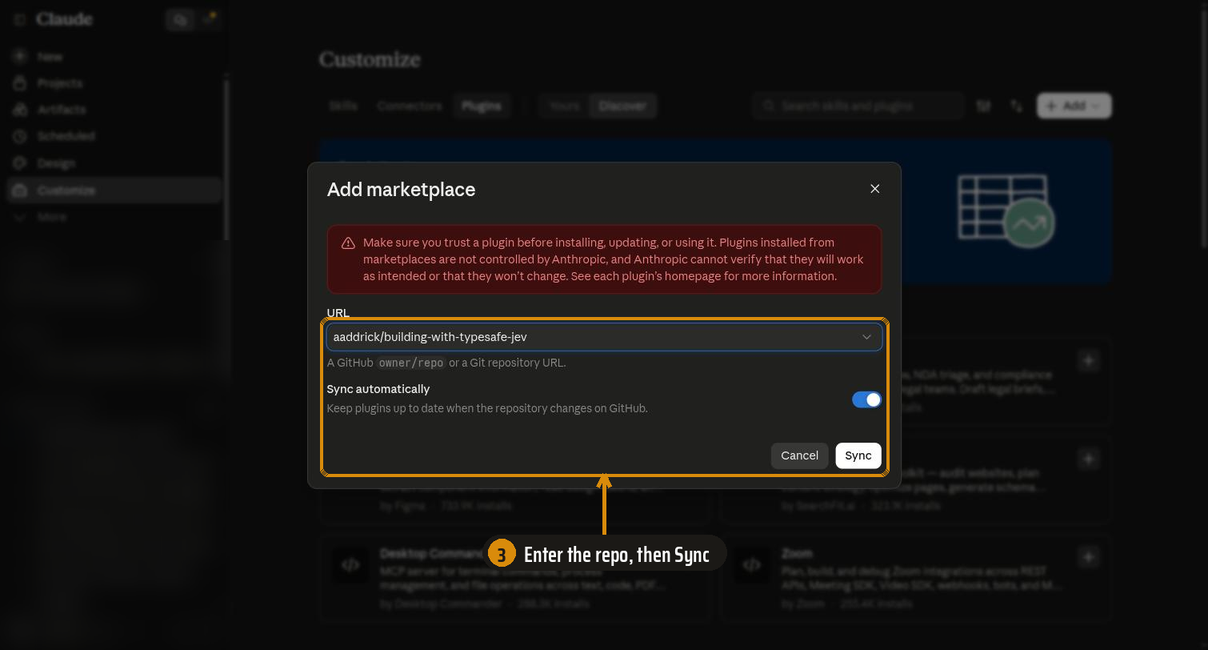
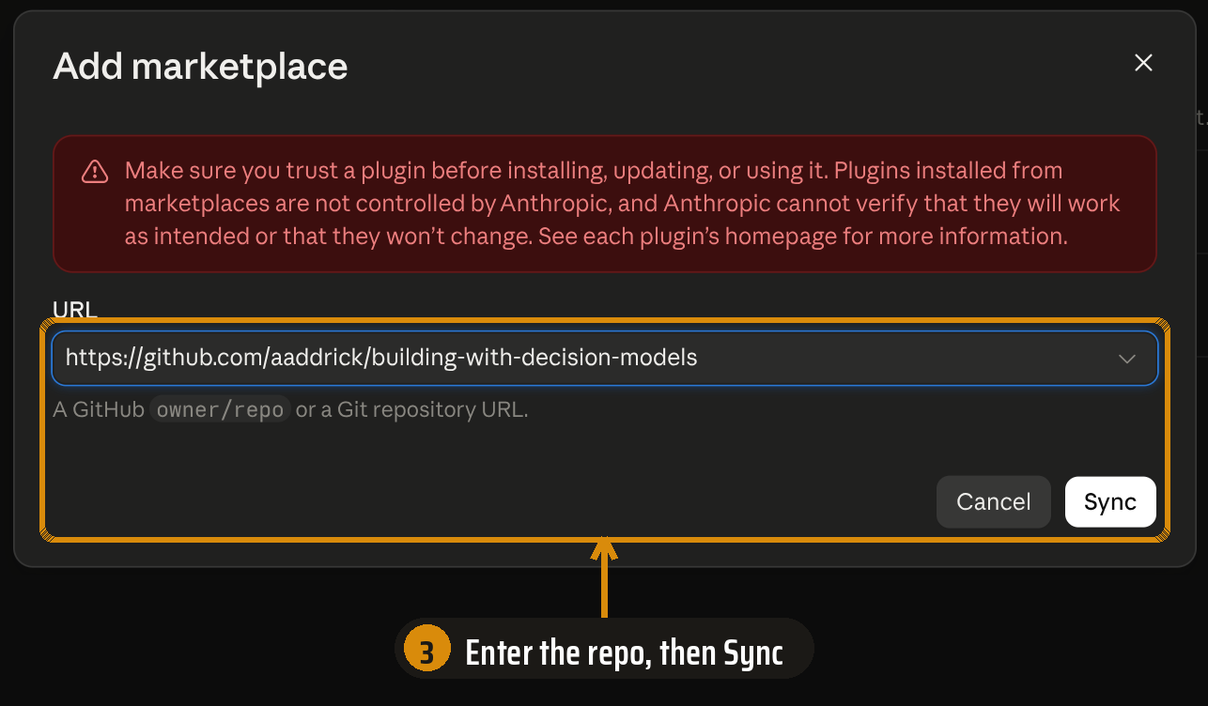
Show the new repo in the install screenshots and tag the main decision models
Steps 3-5 of the Desktop, Cowork, and claude.ai walkthrough showed the old
building-with-typesafe-jev listing. Replace them with captures of this repo,
and let annotate_screens.py take tighter crops at their own size and zoom.

List Clef, pplx-decider, Laya, Kev, Nimble, CLM, OpenAI Decisions, Strands
Decider, and ai_decide next to Jev in the manifest keywords.

diff --git a/scripts/annotate_screens.py b/scripts/annotate_screens.py
@@ -9,10 +9,12 @@ never enter the repo. Capture them yourself, then run:
 
 api-key: 1512x807 captures of console.typesafe.ai, named 01-home.jpg,
 02-keys.jpg, 03-name.jpg, 04-created.jpg.
-plugin-marketplace: 1510x812 captures of claude.ai/customize/plugins with a dark
-theme, named 01-add-menu.jpg, 02-chooser.jpg, 03-repo.jpg, 04-listed.jpg,
-05-installed.jpg.
-Each flow writes .github/assets/<flow>/step-1.png onward.
+plugin-marketplace: captures of the Plugins page with a dark theme. Steps 1-2
+are 1510x812 captures of claude.ai/customize/plugins named 01-add-menu.jpg and
+02-chooser.jpg. Steps 3-5 are tighter crops of the dialog and the Discover list:
+03-repo.png (1286x612), 04-listed.png and 05-added.png (1912x612).
+Each flow writes .github/assets/<flow>/step-1.png onward. Pass step numbers
+after the folder to redo only those steps, e.g. `plugin-marketplace raw 3 4 5`.
 
 Every image gets the same treatment: blur the account details (and, for API
 keys, every existing key row and the new key's value), then draw an amber
@@ -55,66 +57,76 @@ def mask_key(img, box):
            font=mono, fill=(0x55, 0x55, 0x55))
 
 
-def highlight(img, box, step, label, arrow_from):
-    """Amber box around the target, a numbered badge, and an arrow with a label."""
+def highlight(img, box, step, label, arrow_from, s=1.0):
+    """Amber box around the target, a numbered badge, and an arrow with a label.
+
+    s scales the strokes and text, so a wider capture gets marks of the same
+    size relative to the page once it is resized for the README.
+    """
     d = ImageDraw.Draw(img)
-    pad = 6
+    pad = round(6 * s)
     x0, y0, x1, y1 = box[0] - pad, box[1] - pad, box[2] + pad, box[3] + pad
-    for w in range(4):
-        d.rounded_rectangle([x0 - w, y0 - w, x1 + w, y1 + w], radius=10, outline=AMBER)
+    for w in range(round(4 * s)):
+        d.rounded_rectangle([x0 - w, y0 - w, x1 + w, y1 + w], radius=round(10 * s), outline=AMBER)
 
     # arrow from the label toward the nearest edge midpoint of the box
     ax, ay = arrow_from
     tx = min(max(ax, x0), x1)
     ty = min(max(ay, y0), y1)
-    d.line([(ax, ay), (tx, ty)], fill=AMBER, width=5)
+    d.line([(ax, ay), (tx, ty)], fill=AMBER, width=round(5 * s))
     import math
     ang = math.atan2(ty - ay, tx - ax)
-    head = 18
+    head = 18 * s
     for sign in (-1, 1):
         hx = tx - head * math.cos(ang + sign * 0.45)
         hy = ty - head * math.sin(ang + sign * 0.45)
-        d.line([(tx, ty), (hx, hy)], fill=AMBER, width=5)
+        d.line([(tx, ty), (hx, hy)], fill=AMBER, width=round(5 * s))
 
     # label pill with the step number
-    f = font(26)
+    f = font(round(26 * s))
     text_w = d.textlength(label, font=f)
-    r = 20
-    pill_w = int(text_w + 2 * r + 34)
-    px, py = ax - pill_w // 2, ay - r - 2
-    d.rounded_rectangle([px, py, px + pill_w, py + 2 * r + 4], radius=r + 2, fill=INK)
-    cx, cy = px + r + 4, py + r + 2
-    d.ellipse([cx - r + 3, cy - r + 3, cx + r - 3, cy + r - 3], fill=AMBER)
-    nf = font(24, "Bold")
+    r = round(20 * s)
+    pill_w = int(text_w + 2 * r + 34 * s)
+    px, py = ax - pill_w // 2, ay - r - 2 * s
+    d.rounded_rectangle([px, py, px + pill_w, py + 2 * r + 4 * s], radius=r + 2 * s, fill=INK)
+    cx, cy = px + r + 4 * s, py + r + 2 * s
+    d.ellipse([cx - r + 3 * s, cy - r + 3 * s, cx + r - 3 * s, cy + r - 3 * s], fill=AMBER)
+    nf = font(round(24 * s), "Bold")
     n = str(step)
-    d.text((cx - d.textlength(n, font=nf) / 2, cy - 16), n, font=nf, fill=INK)
-    d.text((cx + r + 8, cy - 18), label, font=f, fill=WHITE)
+    d.text((cx - d.textlength(n, font=nf) / 2, cy - 16 * s), n, font=nf, fill=INK)
+    d.text((cx + r + 8 * s, cy - 18 * s), label, font=f, fill=WHITE)
 
 
-# flow: (capture size, output size, steps). Each step is
-# raw file, blurs, dialog kept sharp, key mask, target box, label, label position.
+# flow: (output width, steps). Each step is raw file, capture size, blurs,
+# dialog kept sharp, key mask, target box, label, label position, extra rows of
+# background added below the capture to make room for the label, and a mark
+# scale for a capture zoomed in further than the rest.
 FLOWS = {
-    "api-key": ((1512, 807), (1210, 646), [
-        ("01-home.jpg",    [ACCOUNT],       None,                  None,                 (8, 182, 256, 214),   "Open API Keys",            (132, 420)),
-        ("02-keys.jpg",    [ACCOUNT, ROWS], None,                  None,                 (1361, 14, 1479, 47), "Click Create key",         (1180, 560)),
-        ("03-name.jpg",    [ACCOUNT, ROWS], (492, 281, 1021, 527), None,                 (517, 410, 996, 502), "Name it, then Create key", (756, 640)),
-        ("04-created.jpg", [ACCOUNT, ROWS], (492, 266, 1021, 542), (517, 354, 914, 434), (922, 378, 996, 410), "Copy it now: shown once",  (1180, 640)),
+    "api-key": (1210, [
+        ("01-home.jpg",    (1512, 807), [ACCOUNT],       None,                  None,                 (8, 182, 256, 214),   "Open API Keys",            (132, 420), 0, 1),
+        ("02-keys.jpg",    (1512, 807), [ACCOUNT, ROWS], None,                  None,                 (1361, 14, 1479, 47), "Click Create key",         (1180, 560), 0, 1),
+        ("03-name.jpg",    (1512, 807), [ACCOUNT, ROWS], (492, 281, 1021, 527), None,                 (517, 410, 996, 502), "Name it, then Create key", (756, 640), 0, 1),
+        ("04-created.jpg", (1512, 807), [ACCOUNT, ROWS], (492, 266, 1021, 542), (517, 354, 914, 434), (922, 378, 996, 410), "Copy it now: shown once",  (1180, 640), 0, 1),
     ]),
-    "plugin-marketplace": ((1510, 812), (1208, 650), [
-        ("01-add-menu.jpg",  [SIDEBAR], None, None, (1206, 159, 1388, 193),  "Add, then Add marketplace", (1100, 330)),
-        ("02-chooser.jpg",   [SIDEBAR], None, None, (410, 410, 1102, 479),   "Add from a repository",     (755, 660)),
-        ("03-repo.jpg",      [SIDEBAR], None, None, (409, 405, 1102, 586),   "Enter the repo, then Sync", (755, 690)),
-        ("04-listed.jpg",    [SIDEBAR], None, None, (1338, 190, 1389, 224),  "Add the plugin",            (1180, 258)),
-        ("05-installed.jpg", [SIDEBAR], None, None, (1132, 735, 1484, 795),  "Installed and ready",       (1000, 600)),
+    "plugin-marketplace": (1208, [
+        ("01-add-menu.jpg", (1510, 812), [SIDEBAR], None, None, (1206, 159, 1388, 193), "Add, then Add marketplace", (1100, 330), 0, 1),
+        ("02-chooser.jpg",  (1510, 812), [SIDEBAR], None, None, (410, 410, 1102, 479),  "Add from a repository",     (755, 660), 0, 1),
+        ("03-repo.png",     (1286, 612), [],        None, None, (56, 352, 1231, 563),   "Enter the repo, then Sync", (643, 690), 140, 1.7),
+        ("04-listed.png",   (1912, 612), [],        None, None, (1509, 220, 1597, 274), "Add the plugin",            (1290, 430), 0, 1),
+        ("05-added.png",    (1912, 612), [],        None, None, (1445, 220, 1597, 274), "Added and ready",           (1230, 430), 0, 1),
     ]),
 }
 
+REFERENCE_WIDTH = 1510  # the capture width the mark sizes were tuned on
 
-def main(flow: str, raw_dir: Path) -> None:
-    size, out_size, steps = FLOWS[flow]
+
+def main(flow: str, raw_dir: Path, only: set[int]) -> None:
+    out_w, steps = FLOWS[flow]
     out_dir = ASSETS / flow
     out_dir.mkdir(parents=True, exist_ok=True)
-    for i, (name, blurs, dialog, key_box, target, label, label_at) in enumerate(steps, start=1):
+    for i, (name, size, blurs, dialog, key_box, target, label, label_at, extra, mark) in enumerate(steps, start=1):
+        if only and i not in only:
+            continue
         img = Image.open(raw_dir / name).convert("RGB")
         if img.size != size:
             sys.exit(f"{name}: expected {size[0]}x{size[1]}, got {img.size}")
@@ -125,13 +137,17 @@ def main(flow: str, raw_dir: Path) -> None:
             img.paste(sharp, dialog[:2])     # the dialog is the subject; keep it readable
         if key_box:
             mask_key(img, key_box)
-        highlight(img, target, i, label, label_at)
+        if extra:
+            grown = Image.new("RGB", (img.width, img.height + extra), img.getpixel((2, img.height - 2)))
+            grown.paste(img, (0, 0))
+            img = grown
+        highlight(img, target, i, label, label_at, mark * img.width / REFERENCE_WIDTH)
         out = out_dir / f"step-{i}.png"
-        img.resize(out_size, Image.LANCZOS).save(out, optimize=True)
+        img.resize((out_w, round(img.height * out_w / img.width)), Image.LANCZOS).save(out, optimize=True)
         print(f"wrote {out}")
 
 
 if __name__ == "__main__":
-    if len(sys.argv) != 3 or sys.argv[1] not in FLOWS:
+    if len(sys.argv) < 3 or sys.argv[1] not in FLOWS:
         sys.exit(__doc__)
-    main(sys.argv[1], Path(sys.argv[2]))
+    main(sys.argv[1], Path(sys.argv[2]), {int(n) for n in sys.argv[3:]})

diff --git a/.github/readme/README.ja.md b/.github/readme/README.ja.md
@@ -77,17 +77,17 @@ claude plugin install building-with-decision-models@building-with-decision-model
 
 <img src="../assets/plugin-marketplace/step-2.png" alt="Add marketplace ダイアログ。琥珀色の枠と矢印が Add from a repository を指しています。" width="100%">
 
-**ステップ 3.** `aaddrick/building-with-decision-models` を入力します。**Sync automatically** をオンのままにしておくと、このリポジトリの更新に合わせてプラグインも更新されます。続けて **Sync** を選びます。
+**ステップ 3.** `aaddrick/building-with-decision-models` か GitHub の URL 全体を入力し、**Sync** を選びます。ダイアログに **Sync automatically** があればオンのままにしておくと、このリポジトリの更新に合わせてプラグインも更新されます。
 
-<img src="../assets/plugin-marketplace/step-3.png" alt="URL 欄に aaddrick/building-with-decision-models を入力し、Sync automatically をオンにした Add marketplace ダイアログ。琥珀色の枠と矢印が URL 欄、トグル、Sync ボタンを指しています。" width="100%">
+<img src="../assets/plugin-marketplace/step-3.png" alt="URL 欄に https://github.com/aaddrick/building-with-decision-models を入力した Add marketplace ダイアログ。琥珀色の枠と矢印が URL 欄と Sync ボタンを指しています。" width="100%">
 
 **ステップ 4.** **Building with decision models** の横の **Add** を選びます。
 
 <img src="../assets/plugin-marketplace/step-4.png" alt="Building with decision models が表示された Discover の一覧。琥珀色の枠と矢印がその Add ボタンを指しています。" width="100%">
 
-**ステップ 5.** プラグインのインストール完了が表示されます。同じアカウントのデスクトップアプリと Cowork にも表示されます。
+**ステップ 5.** ボタンが **Added** に変わり、一覧にバージョンが表示されます。同じアカウントのデスクトップアプリと Cowork にもプラグインが表示されます。
 
-<img src="../assets/plugin-marketplace/step-5.png" alt="Building with decision models のプラグインページと、インストールが完了して使用可能になったという通知。琥珀色の枠と矢印が通知を指しています。" width="100%">
+<img src="../assets/plugin-marketplace/step-5.png" alt="Building with decision models v0.1.0 と Added ボタンが表示された Discover 一覧。琥珀色の枠と矢印が Added を指しています。" width="100%">
 
 </details>
 

diff --git a/.github/readme/README.ko.md b/.github/readme/README.ko.md
@@ -77,17 +77,17 @@ claude plugin install building-with-decision-models@building-with-decision-model
 
 <img src="../assets/plugin-marketplace/step-2.png" alt="Add marketplace 대화상자. 호박색 상자와 화살표가 Add from a repository를 가리킵니다." width="100%">
 
-**3단계.** `aaddrick/building-with-decision-models`를 입력하세요. **Sync automatically**를 켜 두면 이 저장소가 업데이트될 때 플러그인도 업데이트됩니다. 그런 다음 **Sync**를 선택하세요.
+**3단계.** `aaddrick/building-with-decision-models` 또는 전체 GitHub URL을 입력한 다음 **Sync**를 선택하세요. 대화상자에 **Sync automatically**가 보이면 켜 두세요. 이 저장소가 업데이트될 때 플러그인도 업데이트됩니다.
 
-<img src="../assets/plugin-marketplace/step-3.png" alt="URL 필드에 aaddrick/building-with-decision-models를 입력하고 Sync automatically를 켠 Add marketplace 대화상자. 호박색 상자와 화살표가 URL 필드, 토글, Sync 버튼을 가리킵니다." width="100%">
+<img src="../assets/plugin-marketplace/step-3.png" alt="URL 필드에 https://github.com/aaddrick/building-with-decision-models를 입력한 Add marketplace 대화상자. 호박색 상자와 화살표가 URL 필드와 Sync 버튼을 가리킵니다." width="100%">
 
 **4단계.** **Building with decision models** 옆의 **Add**를 선택하세요.
 
 <img src="../assets/plugin-marketplace/step-4.png" alt="Building with decision models가 보이는 Discover 목록. 호박색 상자와 화살표가 Add 버튼을 가리킵니다." width="100%">
 
-**5단계.** 플러그인이 설치되었다는 알림이 나타납니다. 같은 계정의 데스크톱 앱과 Cowork에도 나타납니다.
+**5단계.** 버튼이 **Added**로 바뀌고 목록에 버전이 표시됩니다. 같은 계정의 데스크톱 앱과 Cowork에도 플러그인이 나타납니다.
 
-<img src="../assets/plugin-marketplace/step-5.png" alt="Building with decision models 플러그인 페이지와 설치되어 사용할 준비가 되었다는 알림. 호박색 상자와 화살표가 알림을 가리킵니다." width="100%">
+<img src="../assets/plugin-marketplace/step-5.png" alt="Building with decision models v0.1.0과 Added 버튼이 보이는 Discover 목록. 호박색 상자와 화살표가 Added를 가리킵니다." width="100%">
 
 </details>
 

diff --git a/.github/readme/README.vi.md b/.github/readme/README.vi.md
@@ -77,17 +77,17 @@ Skill tự tải khi bạn làm việc với code dùng decision model. Muốn t
 
 <img src="../assets/plugin-marketplace/step-2.png" alt="Hộp thoại Add marketplace. Khung và mũi tên màu hổ phách chỉ vào Add from a repository." width="100%">
 
-**Bước 3.** Nhập `aaddrick/building-with-decision-models`. Giữ **Sync automatically** bật để plugin cập nhật khi repo này cập nhật. Sau đó chọn **Sync**.
+**Bước 3.** Nhập `aaddrick/building-with-decision-models` hoặc URL GitHub đầy đủ, rồi chọn **Sync**. Nếu hộp thoại có **Sync automatically**, hãy giữ nó bật để plugin cập nhật khi repo này cập nhật.
 
-<img src="../assets/plugin-marketplace/step-3.png" alt="Hộp thoại Add marketplace với aaddrick/building-with-decision-models trong ô URL và Sync automatically đang bật. Khung và mũi tên màu hổ phách chỉ vào ô URL, công tắc và nút Sync." width="100%">
+<img src="../assets/plugin-marketplace/step-3.png" alt="Hộp thoại Add marketplace với https://github.com/aaddrick/building-with-decision-models trong ô URL. Khung và mũi tên màu hổ phách chỉ vào ô URL và nút Sync." width="100%">
 
 **Bước 4.** Chọn **Add** cạnh **Building with decision models**.
 
 <img src="../assets/plugin-marketplace/step-4.png" alt="Danh sách Discover hiển thị Building with decision models. Khung và mũi tên màu hổ phách chỉ vào nút Add của nó." width="100%">
 
-**Bước 5.** Claude báo plugin đã được cài. Plugin cũng xuất hiện trong ứng dụng desktop và Cowork trên cùng tài khoản.
+**Bước 5.** Nút chuyển thành **Added** và danh sách hiện phiên bản. Plugin cũng xuất hiện trong ứng dụng desktop và Cowork trên cùng tài khoản.
 
-<img src="../assets/plugin-marketplace/step-5.png" alt="Trang plugin Building with decision models với thông báo đã cài xong và sẵn sàng dùng. Khung và mũi tên màu hổ phách chỉ vào thông báo." width="100%">
+<img src="../assets/plugin-marketplace/step-5.png" alt="Danh sách Discover hiện Building with decision models v0.1.0 với nút Added. Khung và mũi tên màu hổ phách chỉ vào Added." width="100%">
 
 </details>
 

diff --git a/.github/readme/README.it.md b/.github/readme/README.it.md
@@ -77,17 +77,17 @@ La skill si carica da sola quando lavori su codice per modelli decisionali. Per 
 
 <img src="../assets/plugin-marketplace/step-2.png" alt="La finestra di dialogo Add marketplace. Un riquadro e una freccia color ambra indicano Add from a repository." width="100%">
 
-**Passo 3.** Inserisci `aaddrick/building-with-decision-models`. Lascia attivo **Sync automatically** così il plugin si aggiorna insieme a questo repository. Poi seleziona **Sync**.
+**Passo 3.** Inserisci `aaddrick/building-with-decision-models` o l'URL GitHub completo, poi seleziona **Sync**. Se la finestra mostra **Sync automatically**, lascialo attivo così il plugin si aggiorna insieme a questo repository.
 
-<img src="../assets/plugin-marketplace/step-3.png" alt="La finestra di dialogo Add marketplace con aaddrick/building-with-decision-models nel campo URL e Sync automatically attivo. Un riquadro e una freccia color ambra indicano il campo URL, l'interruttore e il pulsante Sync." width="100%">
+<img src="../assets/plugin-marketplace/step-3.png" alt="La finestra di dialogo Add marketplace con https://github.com/aaddrick/building-with-decision-models nel campo URL. Un riquadro e una freccia color ambra indicano il campo URL e il pulsante Sync." width="100%">
 
 **Passo 4.** Seleziona **Add** accanto a **Building with decision models**.
 
 <img src="../assets/plugin-marketplace/step-4.png" alt="L'elenco Discover con Building with decision models. Un riquadro e una freccia color ambra indicano il suo pulsante Add." width="100%">
 
-**Passo 5.** Claude conferma che il plugin è installato. Compare anche nell'app desktop e in Cowork con lo stesso account.
+**Passo 5.** Il pulsante diventa **Added** e l'elenco mostra la versione. Il plugin compare anche nell'app desktop e in Cowork con lo stesso account.
 
-<img src="../assets/plugin-marketplace/step-5.png" alt="La pagina del plugin Building with decision models con un avviso che è installato e pronto all'uso. Un riquadro e una freccia color ambra indicano l'avviso." width="100%">
+<img src="../assets/plugin-marketplace/step-5.png" alt="L'elenco Discover con Building with decision models v0.1.0 e un pulsante Added. Un riquadro e una freccia color ambra indicano Added." width="100%">
 
 </details>
 

diff --git a/.github/readme/README.pt-BR.md b/.github/readme/README.pt-BR.md
@@ -77,17 +77,17 @@ A skill carrega sozinha quando você trabalha com código de modelos de decisão
 
 <img src="../assets/plugin-marketplace/step-2.png" alt="A caixa de diálogo Add marketplace. Uma caixa e uma seta âmbar apontam para Add from a repository." width="100%">
 
-**Passo 3.** Digite `aaddrick/building-with-decision-models`. Deixe **Sync automatically** ligado para o plugin se atualizar junto com este repositório. Depois selecione **Sync**.
+**Passo 3.** Digite `aaddrick/building-with-decision-models` ou a URL completa do GitHub, depois selecione **Sync**. Se a caixa de diálogo mostrar **Sync automatically**, deixe ligado para o plugin se atualizar junto com este repositório.
 
-<img src="../assets/plugin-marketplace/step-3.png" alt="A caixa de diálogo Add marketplace com aaddrick/building-with-decision-models no campo URL e Sync automatically ligado. Uma caixa e uma seta âmbar apontam para o campo URL, a chave e o botão Sync." width="100%">
+<img src="../assets/plugin-marketplace/step-3.png" alt="A caixa de diálogo Add marketplace com https://github.com/aaddrick/building-with-decision-models no campo URL. Uma caixa e uma seta âmbar apontam para o campo URL e o botão Sync." width="100%">
 
 **Passo 4.** Selecione **Add** ao lado de **Building with decision models**.
 
 <img src="../assets/plugin-marketplace/step-4.png" alt="A lista Discover mostrando Building with decision models. Uma caixa e uma seta âmbar apontam para o botão Add." width="100%">
 
-**Passo 5.** O Claude confirma que o plugin foi instalado. Ele também aparece no app para desktop e no Cowork da mesma conta.
+**Passo 5.** O botão muda para **Added** e a lista mostra a versão. O plugin também aparece no app para desktop e no Cowork da mesma conta.
 
-<img src="../assets/plugin-marketplace/step-5.png" alt="A página do plugin Building with decision models com um aviso de que ele está instalado e pronto para uso. Uma caixa e uma seta âmbar apontam para o aviso." width="100%">
+<img src="../assets/plugin-marketplace/step-5.png" alt="A lista Discover mostrando Building with decision models v0.1.0 com um botão Added. Uma caixa e uma seta âmbar apontam para Added." width="100%">
 
 </details>
 

diff --git a/README.md b/README.md
@@ -77,17 +77,17 @@ The skill loads on its own when you work on decision-model code. To load it by h
 
 <img src=".github/assets/plugin-marketplace/step-2.png" alt="The Add marketplace dialog. An amber box and arrow point at Add from a repository." width="100%">
 
-**Step 3.** Enter `aaddrick/building-with-decision-models`. Leave **Sync automatically** on so the plugin updates when this repository does. Then select **Sync**.
+**Step 3.** Enter `aaddrick/building-with-decision-models` or the full GitHub URL, then select **Sync**. If the dialog shows **Sync automatically**, leave it on so the plugin updates when this repository does.
 
-<img src=".github/assets/plugin-marketplace/step-3.png" alt="The Add marketplace dialog with aaddrick/building-with-decision-models in the URL field and Sync automatically on. An amber box and arrow point at the URL field, the toggle, and the Sync button." width="100%">
+<img src=".github/assets/plugin-marketplace/step-3.png" alt="The Add marketplace dialog with https://github.com/aaddrick/building-with-decision-models in the URL field. An amber box and arrow point at the URL field and the Sync button." width="100%">
 
 **Step 4.** Select **Add** next to **Building with decision models**.
 
 <img src=".github/assets/plugin-marketplace/step-4.png" alt="The Discover list showing Building with decision models. An amber box and arrow point at its Add button." width="100%">
 
-**Step 5.** Claude confirms the plugin is installed. It also appears in the desktop app and Cowork on the same account.
+**Step 5.** The button changes to **Added**, and the listing shows the version. The plugin also appears in the desktop app and Cowork on the same account.
 
-<img src=".github/assets/plugin-marketplace/step-5.png" alt="The Building with decision models plugin page with a notice that it is installed and ready to use. An amber box and arrow point at the notice." width="100%">
+<img src=".github/assets/plugin-marketplace/step-5.png" alt="The Discover list showing Building with decision models v0.1.0 with an Added button. An amber box and arrow point at Added." width="100%">
 
 </details>
 

diff --git a/.github/readme/README.zh-CN.md b/.github/readme/README.zh-CN.md
@@ -77,17 +77,17 @@ claude plugin install building-with-decision-models@building-with-decision-model
 
 <img src="../assets/plugin-marketplace/step-2.png" alt="Add marketplace 对话框。琥珀色方框和箭头指向 Add from a repository。" width="100%">
 
-**第 3 步。** 输入 `aaddrick/building-with-decision-models`。保持 **Sync automatically** 开启，插件会随本仓库一起更新。然后选择 **Sync**。
+**第 3 步。** 输入 `aaddrick/building-with-decision-models` 或完整的 GitHub URL，然后选择 **Sync**。如果对话框里有 **Sync automatically**，保持开启，插件会随本仓库一起更新。
 
-<img src="../assets/plugin-marketplace/step-3.png" alt="Add marketplace 对话框，URL 栏中填入 aaddrick/building-with-decision-models，Sync automatically 已开启。琥珀色方框和箭头指向 URL 栏、开关和 Sync 按钮。" width="100%">
+<img src="../assets/plugin-marketplace/step-3.png" alt="Add marketplace 对话框，URL 栏中填入 https://github.com/aaddrick/building-with-decision-models。琥珀色方框和箭头指向 URL 栏和 Sync 按钮。" width="100%">
 
 **第 4 步。** 选择 **Building with decision models** 旁边的 **Add**。
 
 <img src="../assets/plugin-marketplace/step-4.png" alt="Discover 列表中显示 Building with decision models。琥珀色方框和箭头指向它的 Add 按钮。" width="100%">
 
-**第 5 步。** Claude 提示插件已安装。同一账号下的桌面应用和 Cowork 中也会出现它。
+**第 5 步。** 按钮变为 **Added**，列表中显示版本号。同一账号下的桌面应用和 Cowork 中也会出现该插件。
 
-<img src="../assets/plugin-marketplace/step-5.png" alt="Building with decision models 插件页面，提示已安装并可以使用。琥珀色方框和箭头指向该提示。" width="100%">
+<img src="../assets/plugin-marketplace/step-5.png" alt="Discover 列表显示 Building with decision models v0.1.0 和 Added 按钮。琥珀色方框和箭头指向 Added。" width="100%">
 
 </details>
 
